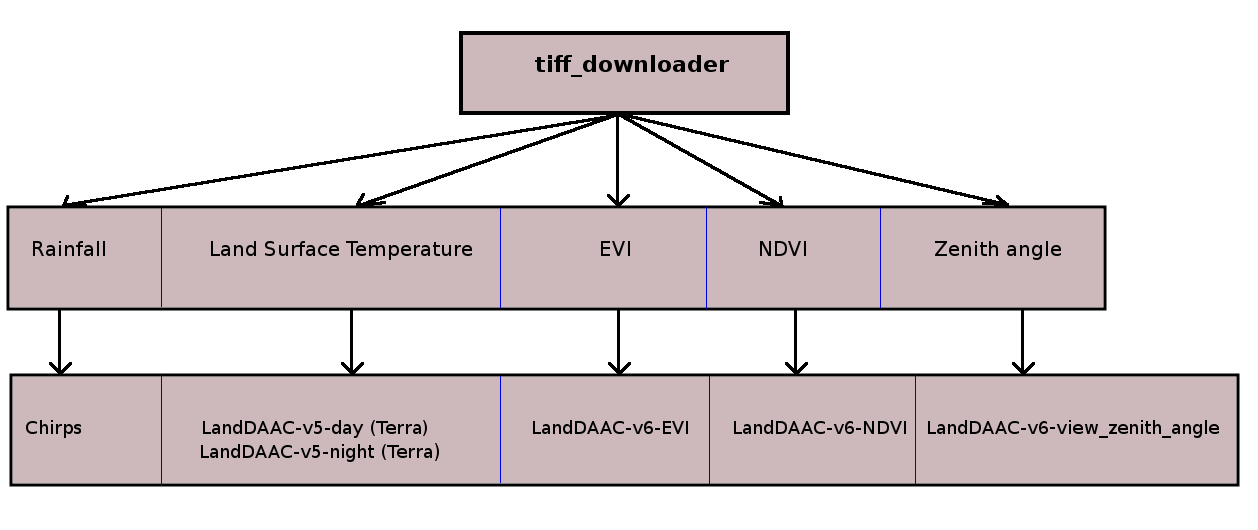
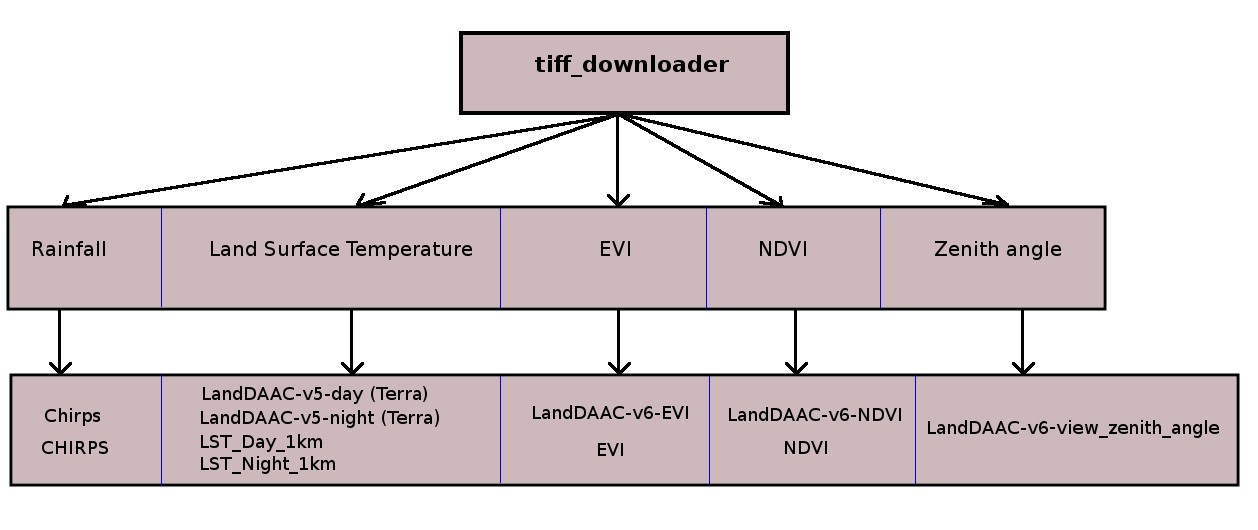
Added Google Earth Engine

diff --git a/tiff_downloader.py b/tiff_downloader.py
@@ -1,6 +1,7 @@
 from configparser import ConfigParser
 import numpy as np
 import pandas as pd
+import time
 import matplotlib.pyplot as plt
 import urllib.request
 import os
@@ -12,6 +13,9 @@ from rasterio.warp import reproject, Resampling
 import xarray as xr
 import geoviews as gv
 import logging
+import ee
+from pydrive.auth import GoogleAuth
+from pydrive.drive import GoogleDrive
 
 
 # instantiate
@@ -20,6 +24,17 @@ config = ConfigParser()
 config.read('settings.ini')
 # read values 
 PATH = config.get('settings', 'path')
+
+# Initialize Google Earth Engine.
+ee.Initialize()
+# Iinitialize (authenticate) Google Driver.
+gauth = GoogleAuth()
+# Try to load saved client credentials
+gauth.LoadCredentialsFile("mycreds.txt")
+gauth.LocalWebserverAuth()
+# Save the current credentials to a file
+gauth.SaveCredentialsFile("mycreds.txt")
+drive = GoogleDrive(gauth)
 
 
 def download_tiffs(source, date1, date2, point1, point2, opt=False):
@@ -69,9 +84,11 @@ def download_tiffs(source, date1, date2, point1, point2, opt=False):
         if source in ["LandDAAC-v5-day", "LandDAAC-v5-night",
                       "LandDAAC-v6-EVI", "LandDAAC-v6-NDVI",
                       "LandDAAC-v6-view_zenith_angle"]:
-            url = single_download_LandDAAC(source, current_date, next_date, x1, x2, y1, y2, opt)
+            single_download_LandDAAC(source, current_date, next_date, x1, x2, y1, y2, opt)
         elif source == "chirps-2.0":
-            url = single_download_chirps(current_date, x1, x2, y1, y2, opt)
+            single_download_chirps(current_date, x1, x2, y1, y2, opt)
+        elif source in ["LST_Day_1km", "LST_Night_1km", "CHIRPS", "NDVI", "EVI"]:
+            single_download_gee(source, current_date, next_date, x1, x2, y1, y2, opt)
                         
     # View time series after the downloads.
     if opt.time_series:
@@ -81,7 +98,7 @@ def download_tiffs(source, date1, date2, point1, point2, opt=False):
 
 
 def single_download_LandDAAC(source, date1, date2, x1, x2, y1, y2, opt):
-    """ Function responsible for each satellite image download. """
+    """ Function responsible for each satellite image download from the IRI dataset. """
 
     # Convert numeric data values to string format. 
     year1 = str(date1.year)
@@ -164,11 +181,11 @@ def single_download_LandDAAC(source, date1, date2, x1, x2, y1, y2, opt):
         if exists:
             os.remove(path)
     
-    return url
+    return
 
 
 def single_download_chirps(date, x1, x2, y1, y2, opt):
-    """ Function responsible for each satellite image download. """
+    """ Function responsible for each satellite image download from Chirps. """
 
     # Convert numeric data values to string format.
     year = str(date.year)
@@ -263,7 +280,125 @@ def single_download_chirps(date, x1, x2, y1, y2, opt):
         if exists:
             os.remove(path)
 
-    return url
+    return
+
+
+def single_download_gee(source, date1, date2, x1, x2, y1, y2, opt):
+    """ Function responsible for each satellite image download from Google Earth Engine. """
+
+    # Convert numeric data values to string format.
+    year1 = str(date1.year)
+    month1 = str(date1.month)
+    day1 = str(date1.day)
+    if len(month1) == 1:    month1 = '0' + month1
+    if len(day1) == 1:      day1 = '0' + day1
+
+    # Satellite parameters.
+    bbox = str([[x1, y1], [x1, y2], [x2, y1], [x2, y2]])
+
+    if source in ['LST_Day_1km', 'LST_Night_1km']:
+        scale = 500
+        mod11 = ee.ImageCollection("MODIS/MOD11A2")
+        img = mod11.filterDate(date1, date2) \
+            .sort('system:time_start', False) \
+            .select(source) \
+            .mean() \
+            .multiply(0.02) \
+            .subtract(273.15) \
+            .rename("Celsius") \
+            .set('date', date1) \
+            .set('system:time_start', date1)
+
+    elif source == 'CHIRPS':
+        scale = 5000
+        CHIRPS = ee.ImageCollection("UCSB-CHG/CHIRPS/PENTAD")
+        img = CHIRPS.filterDate(date1, date2) \
+            .sort('system:time_start', False) \
+            .mean() \
+            .rename("Precipitation") \
+            .set('date', date1) \
+            .set('system:time_start', date1)
+
+    elif source == 'NDVI':
+        scale = 500
+        MYD13Q1 = ee.ImageCollection("MODIS/MYD13Q1")
+        img = MYD13Q1.filterDate(date1, date2) \
+            .sort('system:time_start', False) \
+            .select(source) \
+            .mean() \
+            .rename(source) \
+            .set('date', date1) \
+            .set('system:time_start', date1)
+
+    elif source == 'EVI':
+        scale = 500
+        MYD13Q1 = ee.ImageCollection("MODIS/MYD13Q1")
+        img = MYD13Q1.filterDate(date1, date2) \
+            .sort('system:time_start', False) \
+            .select(source) \
+            .mean() \
+            .rename(source) \
+            .set('date', date1) \
+            .set('system:time_start', date1)
+
+    # Export data to Google Drive.
+    filename = source + '-' + str(year1) + '-' + str(month1) + '-' + str(day1)
+    task_config = {'scale': scale, 'region': bbox}
+    task = ee.batch.Export.image(img, filename, task_config)
+    task.start()
+
+    # Download Google Drive data to local machine.
+    count = 0
+    wait = True
+    while wait:
+        # Get file list within Driver.
+        file_list = drive.ListFile({'q': "'root' in parents and trashed=false"}).GetList()
+        for file in file_list:
+            if file['title'] == filename + '.tif':
+                wait = False
+                # Download file from Google Drive.
+                file.GetContentFile(filename + '.tif')
+                # Delete downloaded file from Google Drive.
+                file.Delete()
+                break
+        if wait:
+            # Wait one minute before repeating the search.
+            time.sleep(60)
+            count += 1
+            # After one hour the program gives up.
+            if count == 60:
+                wait = False
+
+    # Change extension from tif to tiff and save it in PATH.
+    path = os.path.join(PATH, filename + '.tiff')
+    with open(path, "wb") as fp:
+        with open(filename + '.tif', "rb") as f:
+            d = f.read()
+        fp.write(d)
+
+    # Remove original file.
+    os.remove(filename + '.tif')
+
+    # After saving the image, the treatment process begins.
+    regrid_image(filename + '.tiff', opt)
+
+    # Log message of success.
+    if count < 60:
+        msg = 'Download (' + year1 + '-' + month1 + '-' + day1 + '): success'
+        logging.info(msg)
+
+    else:
+        # Log message of failure.
+        msg = 'Download (' + year1 + '-' + month1 + '-' + day1 + '): failure'
+        logging.error(msg)
+
+    # If the treated image is the only one required, the original image is deleted.
+    if not opt.keep_original:
+        exists = os.path.isfile(path)
+        if exists:
+            os.remove(path)
+
+    return
 
 
 def scale_min_max(source, remote_data):
@@ -286,12 +421,14 @@ def scale_min_max(source, remote_data):
 def source_freq(source):
     """ Gets the frequency (in days) with which the respective satellite sends the data. """
     
-    if source in ["LandDAAC-v5-day", "LandDAAC-v5-night"]:
-        freq = '8D'
-    elif source in ["LandDAAC-v6-EVI", "LandDAAC-v6-NDVI", "LandDAAC-v6-view_zenith_angle"]:
-        freq = '16D'
-    elif source == "chirps-2.0":
+    if source == "chirps-2.0":
         freq = '1D'
+    elif source == "CHIRPS":
+        freq = '5D'
+    elif source in ["LandDAAC-v5-day", "LandDAAC-v5-night", "LST_Day_1km", "LST_Night_1km"]:
+        freq = '8D'
+    elif source in ["LandDAAC-v6-EVI", "LandDAAC-v6-NDVI", "LandDAAC-v6-view_zenith_angle", "NDVI", "EVI"]:
+        freq = '16D'
         
     return freq
 
@@ -429,6 +566,39 @@ def about(x):
               'station data to create gridded rainfall time series for trend analysis and seasonal drought monitoring.')
         print('Link: ftp://chg-ftpout.geog.ucsb.edu/pub/org/chg/products/CHIRPS-2.0/global_daily/tifs/p05/')
         print()
+
+        print('LST_Day_1km / LST_Night_1km')
+        print('------------------------------')
+        print('The MOD11A2 V6 product provides an average 8-day land surface temperature (LST) in a 1200 x 1200 '
+              'kilometer grid. Each pixel value in MOD11A2 is a simple average of all the corresponding MOD11A1 LST '
+              'pixels collected within that 8 day period. The 8 day compositing period was chosen because twice that '
+              'period is the exact ground track repeat period of the Terra and Aqua platforms. In this product, along '
+              'with both the day- and night-time surface temperature bands and their quality indicator (QC) layers, are'
+              ' also MODIS bands 31 and 32 and eight observation layers.')
+        print('Link: https://developers.google.com/earth-engine/datasets/catalog/MODIS_006_MOD11A2')
+        print()
+
+        print('NDVI / EVI')
+        print('------------------------------')
+        print('The MYD13Q1 V6 product provides a Vegetation Index (VI) value at a per pixel basis. There are two '
+              'primary vegetation layers. The first is the Normalized Difference Vegetation Index (NDVI) which is '
+              'referred to as the continuity index to the existing National Oceanic and Atmospheric '
+              'Administration-Advanced Very High Resolution Radiometer (NOAA-AVHRR) derived NDVI. The second vegetation '
+              'layer is the Enhanced Vegetation Index (EVI) that minimizes canopy background variations and maintains '
+              'sensitivity over dense vegetation conditions. The EVI also uses the blue band to remove residual '
+              'atmosphere contamination caused by smoke and sub-pixel thin cloud clouds. The MODIS NDVI and EVI '
+              'products are computed from atmospherically corrected bi-directional surface reflectances that have been '
+              'masked for water, clouds, heavy aerosols, and cloud shadows.')
+        print('Link: https://developers.google.com/earth-engine/datasets/catalog/MODIS_006_MYD13Q1')
+        print()
+
+        print('CHIRPS')
+        print('------------------------------')
+        print('Climate Hazards Group InfraRed Precipitation with Station data (CHIRPS) is a 30+ year quasi-global '
+              'rainfall dataset. CHIRPS incorporates 0.05° resolution satellite imagery with in-situ station data to '
+              'create gridded rainfall time series for trend analysis and seasonal drought monitoring.')
+        print('Link: https://developers.google.com/earth-engine/datasets/catalog/UCSB-CHG_CHIRPS_PENTAD')
+        print()
         
     if x == 'options':   
         print('cmap (string)')
@@ -442,8 +612,7 @@ def about(x):
               'images and download these new pack of images. You should pass a list of two items. The first is a '
               'positive float, the ratio of the regrid. For example, if the original image is 120x120 and regrid[0]=2, '
               'them the program will create a image of shape 240x240. The second is the method of the resampling, which'
-              ' can be `nearest`, `average`, `bilinear`, `cubic`, `cubic_spline`, `mode`, `lanczos`, `max`, `min`,`q1` '
-              'and `q3`.')
+              ' can be `nearest`, `average`, `bilinear` and `cubic`.')
         print('Link: https://github.com/mapbox/rasterio/blob/master/rasterio/enums.py#L28')
         print()
               

diff --git a/shapefile_module.py b/shapefile_module.py
@@ -142,7 +142,7 @@ def raw_plot(shp_filename, raster_filename, cmap='jet'):
         array = dataset.read()[0, :, :]
         fig, ax = plt.subplots(figsize=(15, 15))
         rasterio.plot.show(dataset, ax=ax, cmap=cmap)
-        sm = plt.cm.ScalarMappable(cmap=cmap, norm=plt.Normalize(vmin=np.max(array), vmax=np.min(array)))
+        sm = plt.cm.ScalarMappable(cmap=cmap, norm=plt.Normalize(vmin=np.nanmax(array), vmax=np.nanmin(array)))
         sm._A = []
         cbar = fig.colorbar(sm, fraction=0.028)
         dataset_map.plot(ax=ax, facecolor='none', edgecolor='black')
